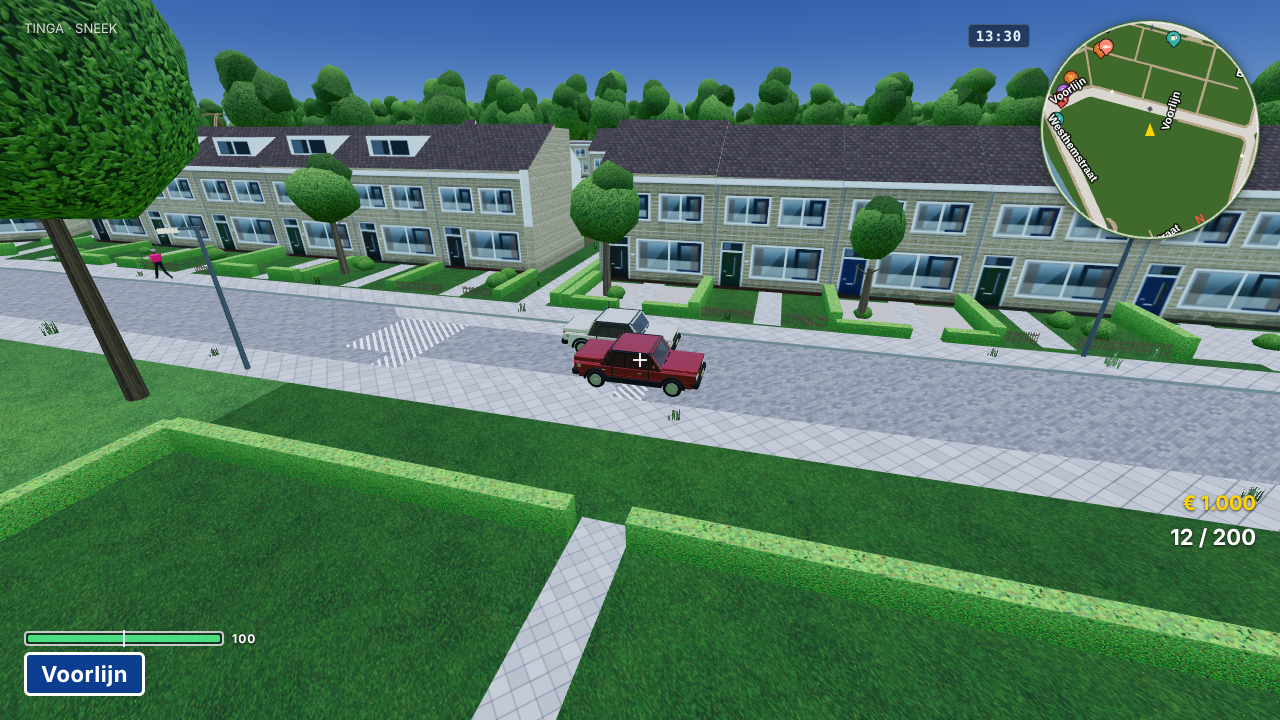
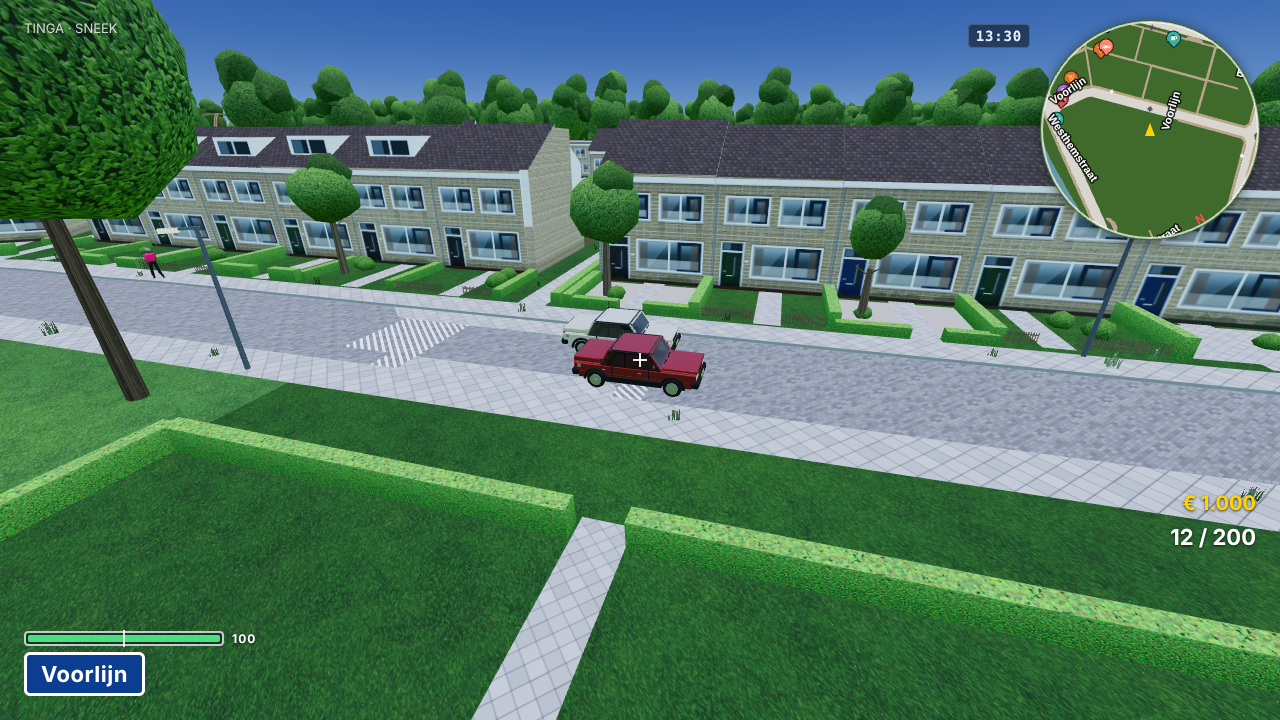
Stap 179: de foto van de kruising opnieuw (was zwart), terug in de README
Claude-Session: https://claude.ai/code/session_01Qq4V9hLBj33ACehDrT6xv8

diff --git a/README.md b/README.md
@@ -283,6 +283,8 @@ over de weg, een achtergelaten auto of een wrak, dan rijdt het verkeer er niet m
 stopt, toetert, en rijdt na een paar tellen over de andere strook om de auto heen als daar plaats is en
 er niemand aankomt. Is de straat te smal, dan keert het.
 
+![Twee auto's bij een kruising: de een wacht voor de stopstreep, de ander steekt over](docs/screenshots/voorrang_kruising.png)
+
 ![Een auto die over de andere strook om een rode auto in zijn strook heen rijdt](docs/screenshots/voorrang_uitwijken.png)
 
 De motor heeft een **versnellingsbak** van vijf verzetten. Binnen een verzet lopen de toeren op, bij
